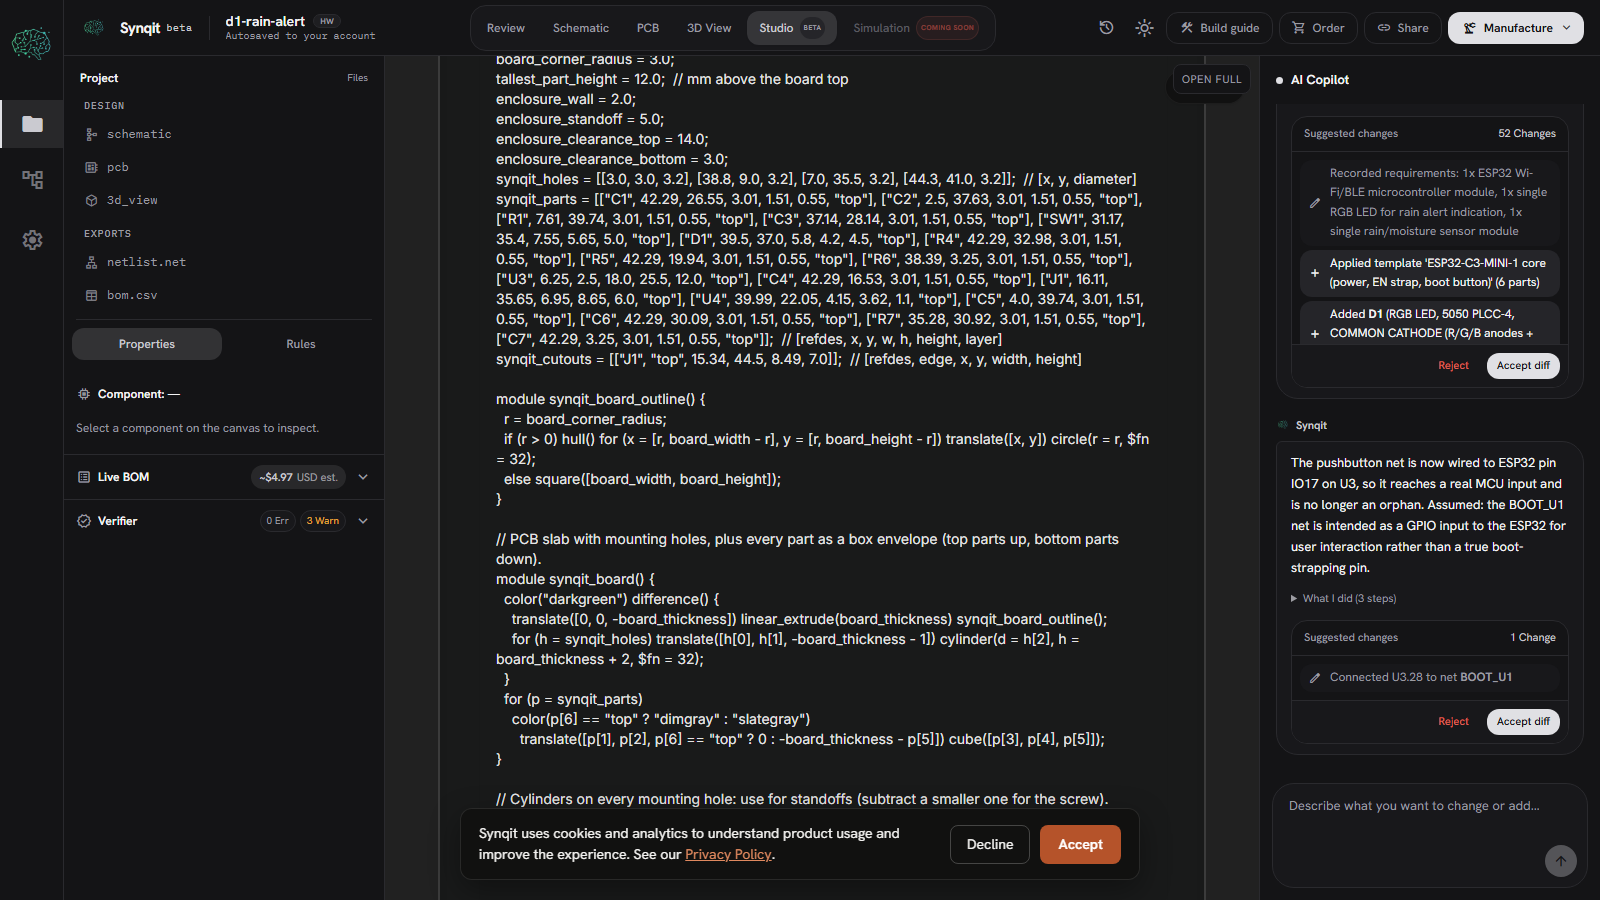
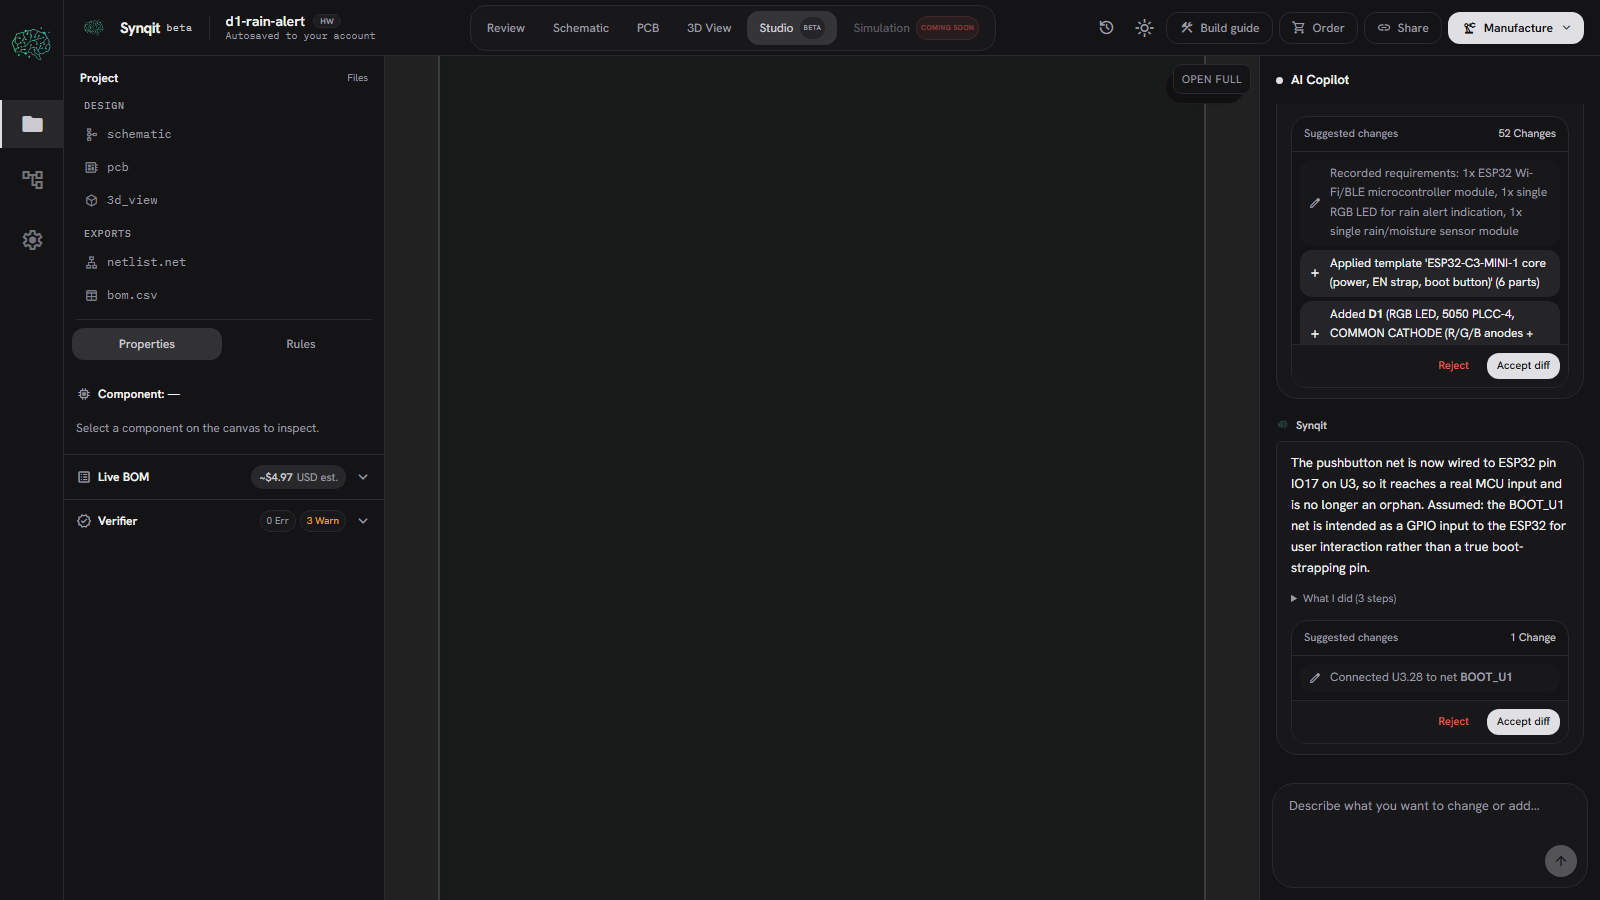
Composer: cap height and scroll when a board brief is inserted
Claude-Session: https://claude.ai/code/session_01AtKS7PGB2sT5vpkcottEKb

diff --git a/app/src/components/TextAreaChat.tsx b/app/src/components/TextAreaChat.tsx
@@ -1550,7 +1550,7 @@ function TextAreaChat({
                 setInput(e.target.value);
               }}
               placeholder={placeholderAnim}
-              className="hide-scrollbar z-40 block h-auto min-h-10 w-full resize-none overflow-hidden whitespace-pre-line break-words border-none bg-sq-neutral-800 bg-transparent px-3 py-2 text-base leading-6 text-sq-text-primary outline-none transition-all duration-500 placeholder:text-sq-text-secondary placeholder:opacity-[var(--placeholder-opacity)] placeholder:transition-all placeholder:duration-300 placeholder:ease-in-out hover:placeholder:blur-[0.2px] focus:border-0 focus:shadow-none focus:outline-none focus:ring-0 focus-visible:outline-none focus-visible:ring-0 focus-visible:ring-offset-0 dark:text-gray-200 sm:px-4 sm:text-sm"
+              className="z-40 block h-auto max-h-56 min-h-10 w-full resize-none overflow-y-auto whitespace-pre-line break-words border-none bg-sq-neutral-800 bg-transparent px-3 py-2 text-base leading-6 text-sq-text-primary outline-none transition-all duration-500 placeholder:text-sq-text-secondary placeholder:opacity-[var(--placeholder-opacity)] placeholder:transition-all placeholder:duration-300 placeholder:ease-in-out hover:placeholder:blur-[0.2px] focus:border-0 focus:shadow-none focus:outline-none focus:ring-0 focus-visible:outline-none focus-visible:ring-0 focus-visible:ring-offset-0 dark:text-gray-200 sm:px-4 sm:text-sm"
               style={
                 {
                   '--placeholder-opacity': placeholderOpacity,
